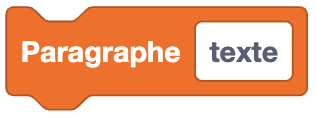
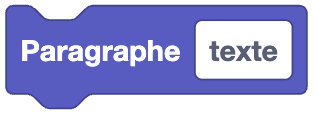
[FIX] feat to the new toolbox

diff --git a/sidebars.js b/sidebars.js
@@ -51,20 +51,19 @@ const sidebars = {
           label: "Tous les blocs",
 	      link: {type: 'doc', id: 'elioblocs/blocs/all-blocs'},
           items: [
-            "elioblocs/blocs/conditions",
-            "elioblocs/blocs/loops",
-            "elioblocs/blocs/maths",
-            "elioblocs/blocs/lists",
-            "elioblocs/blocs/text",
-            "elioblocs/blocs/variables",
-            "elioblocs/blocs/functions",
+            "elioblocs/blocs/basics",
             "elioblocs/blocs/colors",
             "elioblocs/blocs/sounds",
             "elioblocs/blocs/movements",
-            "elioblocs/blocs/obstacles",
-            "elioblocs/blocs/line",
-            "elioblocs/blocs/utilities",
-	        "elioblocs/blocs/wifi",
+            "elioblocs/blocs/entries",
+            "elioblocs/blocs/conditions",
+            "elioblocs/blocs/loops",
+            "elioblocs/blocs/maths",
+            "elioblocs/blocs/text",
+            "elioblocs/blocs/lists",
+            "elioblocs/blocs/wifi",
+            "elioblocs/blocs/variables",
+            "elioblocs/blocs/functions",
             {
                 type: 'category',
                 label: "Backpacks",

diff --git a/docs/elioblocs/blocs/entries.md b/docs/elioblocs/blocs/entries.md
@@ -1,14 +1,38 @@
 ---
 last_modified_on: "2024-02-26"
-title: "Capteur de ligne"
-description: "Elioblocs - Capteur de ligne"
+title: "Entrées"
+description: "Elioblocs - Entrées"
+---
+
+Les blocs d'entrées permettent de récupérer des informations de l'environnement d'Eliobot.
+
+Les blocs de capteur d'obstacles permettent de tester la présence d'un obstacle proche d'Eliobot.
+
+## Tester la présence d'un obstacle
+
+![Check obstacle](../../../static/img/elioblocs/blocs/entries/test-obstacles.png)
+
+**Type** : Bloc booléen
+
+**Définition** :
+
+Ce bloc permet de tester la présence d'un obstacle à une certaine distance d'Eliobot :
+- à l'avant
+- à l'arrière
+- à gauche
+- à droite
+
+**Utilisation** :
+
+Si tu veux éviter les obstacles tels des murs ou des objets.
+
 ---
 
 Les blocs de capteur de ligne permettent de suivre une ligne ou de tester la présence d'une ligne.
 
-## Suivre une ligne 
+## Suivre une ligne
 
-![alt text](../../../static/img/elioblocs/blocs/line/suivre-ligne.png)
+![alt text](../../../static/img/elioblocs/blocs/entries/suivre-ligne.png)
 
 **Type** : Commande
 
@@ -22,9 +46,7 @@ Si on veut que Eliobot suive une ligne noire sur un parcours, celui au dos de ta
 
 ## Tester la présence d'une ligne
 
-![alt text](../../../static/img/elioblocs/blocs/line/ligne-presente.png)
-
-![alt text](../../../static/img/elioblocs/blocs/line/choix-ligne.png)
+![alt text](../../../static/img/elioblocs/blocs/entries/ligne-presente.png)
 
 **Type** : Bloc booléen
 
@@ -43,7 +65,7 @@ Pour permettre à Eliobot de suivre une ligne noire sur un parcours et de tester
 
 ## Modifier la sensibilité du capteur de ligne
 
-![alt text](../../../static/img/elioblocs/blocs/line/sensi-ligne.png)
+![alt text](../../../static/img/elioblocs/blocs/entries/sensi-ligne.png)
 
 **Type** : Commande
 
@@ -57,7 +79,7 @@ Si tu es dans un espace très lumineux ou très sombre, tu peux modifier la sens
 
 ## Lire la valeur d'un capteur de ligne
 
-![alt text](../../../static/img/elioblocs/blocs/line/valeur-ligne.png)
+![alt text](../../../static/img/elioblocs/blocs/entries/valeur-ligne.png)
 
 **Type** : Valeur
 
@@ -72,7 +94,7 @@ Si tu veux récupérer la valeur du capteur de ligne pour mieux calibrer la sens
 
 ## Calibration automatique de ligne
 
-![alt text](../../../static/img/elioblocs/blocs/line/calibration-ligne.jpg)
+![alt text](../../../static/img/elioblocs/blocs/entries/calibration-ligne.jpg)
 
 **Type** : Commande
 
@@ -85,3 +107,18 @@ Ce bloc permet de calibrer automatiquement le capteur de ligne. Il permet de dé
 Il faut placer les 5 capteurs de ligne au-dessus d'une ligne noire et eliobot va calibrer automatiquement la valeur à laquelle il détecte la ligne en
 avançant et en reculant. Eliobot doit être perpendiculaire sur la ligne pour que la calibration soit correcte.
 
+---
+
+## Tester si le bouton est activé
+
+![Is button activated](../../../static/img/elioblocs/blocs/entries/test-bouton.png)
+
+**Type** : Bloc booléen
+
+**Définition** :
+
+Ce bloc permet de tester si le bouton d'Eliobot est activé, il renvoie `vrai` si le bouton est activé et `faux` sinon.
+
+**Utilisation** :
+
+Si tu veux réaliser une action seulement si le bouton d'Eliobot est activé. Démarrer ton programme par exemple.

diff --git a/docs/elioblocs/blocs/basics.md b/docs/elioblocs/blocs/basics.md
@@ -1,0 +1,70 @@
+---
+last_modified_on: "2024-02-26"
+title: "Basiques"
+description: "Elioblocs - Basics"
+---
+
+import Jump from '@site/src/components/Jump';
+
+Les blocs basiques sont les premiers blocs que tu vas utiliser pour programmer Eliobot.
+
+## Au démarrage
+
+![On start](../../../static/img/elioblocs/blocs/basics/boucle-start.jpg)
+
+**Type** : Commande
+
+**Définition** :
+
+Ce bloc est une boucle qui est exécutée une seule fois au démarrage du programme seule les blocs dans cette boucle ou dans une boucle Répéter indéfiniment sont éxécutés les autres sont désactivés.
+
+**Utilisation** :
+
+Si on veut que Eliobot avance d'une case au démarrage.
+
+
+## Répéter indéfiniment
+
+![Infinite loop](../../../static/img/elioblocs/blocs/basics/boucle-infinie.png)
+
+**Type** : Commande
+
+**Définition** :
+
+Cette boucle répète indéfiniment les blocs qu'elle contient. Pour arrêter la boucle, il faut utiliser <img src={require('@site/static/img/elioblocs/blocs/loops/quitter-boucle.png').default} style={{ width: '14%', verticalAlign: 'middle' }} alt="Quitter boucle" />.
+
+:::warning
+Attention, après l'utilisation de cette boucle, **seulement** les blocs qui se trouvent à l'intérieur seront exécutés à l'infini.
+:::
+
+**Utilisation** :
+
+Si on veut que Eliobot avance indéfiniment.
+
+## Attendre X secondes
+
+![Wait for X seconds](../../../static/img/elioblocs/blocs/basics/attendre.png)
+
+**Type** : Commande
+
+**Définition** :
+
+Ce bloc permet de faire une pause dans le programme pendant un certain nombre de secondes / millisecondes.
+
+**Utilisation** :
+
+Si tu veux faire une pause dans ton programme entre deux actions.
+
+## Afficher une valeur dans le terminal
+
+![Print value in the terminal](../../../static/img/elioblocs/blocs/basics/print-valeur.png)
+
+**Type** : Commande
+
+**Définition** :
+
+Ce bloc permet d'afficher une valeur dans le terminal. La valeur peut être un nombre, un texte ou un booléen.
+
+**Utilisation** :
+
+Si tu veux afficher une valeur pour débugger ton programme.

diff --git a/docs/eliobot/button.md b/docs/eliobot/button.md
@@ -19,7 +19,7 @@ Le mode Bootloading est un mode qui permet de flasher le microcontrôleur d'Elio
 
 ## Utilisation avec Elioblocs
 
-Pour utiliser le bouton d'Eliobot sur Elioblocs, on utilise le bloc <img src={require("@site/static/img/elioblocs/blocs/utilities/test-bouton.png").default} style={{ width: "14%", verticalAlign: "middle" }} alt="test bouton" /> pour tester si le bouton est pressé ou non, il renvoie `vrai` si le bouton est pressé et `faux` sinon.
+Pour utiliser le bouton d'Eliobot sur Elioblocs, on utilise le bloc <img src={require("@site/static/img/elioblocs/blocs/entries/test-bouton.png").default} style={{ width: "14%", verticalAlign: "middle" }} alt="test bouton" /> pour tester si le bouton est pressé ou non, il renvoie `vrai` si le bouton est pressé et `faux` sinon.
 
 ## Utilisation avec Python
 
@@ -35,7 +35,7 @@ L'information que le bouton renvoie sont des valeurs numériques (0,1), il faut 
 ><img src={require("@site/static/img/eliobot/button/example-button-elioblocs.jpg").default} alt="exemple bouton elioblocs" width="49%" />
 >
 
-Ici, on utilise le bloc <img src={require("@site/static/img/elioblocs/blocs/utilities/test-bouton.png").default} style={{ width: "14%", verticalAlign: "middle" }} alt="test bouton" /> pour écrire que le bouton est pressé dans le terminal.
+Ici, on utilise le bloc <img src={require("@site/static/img/elioblocs/blocs/entries/test-bouton.png").default} style={{ width: "14%", verticalAlign: "middle" }} alt="test bouton" /> pour écrire que le bouton est pressé dans le terminal.
 
 ---
 

diff --git a/docs/elioblocs/blocs/loops.md b/docs/elioblocs/blocs/loops.md
@@ -6,39 +6,6 @@ description: "Elioblocs - Boucles"
 
 Les boucles permettent de répéter des actions un certain nombre de fois où jusqu'à ce qu'une condition soit remplie (ou pas). Elles sont très utiles pour automatiser des tâches répétitives.
 
-## Au démarrage
-
-![On start](../../../static/img/elioblocs/blocs/loops/boucle-start.jpg)
-
-**Type** : Commande
-
-**Définition** :
-
-Ce bloc est une boucle qui est exécutée une seule fois au démarrage du programme seule les blocs dans cette boucle ou dans une boucle Répéter indéfiniment sont éxécutés les autres sont désactivés.
-
-**Utilisation** :
-
-Si on veut que Eliobot avance d'une case au démarrage.
-
-
-## Répéter indéfiniment
-
-![Infinite loop](../../../static/img/elioblocs/blocs/loops/boucle-infinie.png)
-
-**Type** : Commande
-
-**Définition** :
-
-Cette boucle répète indéfiniment les blocs qu'elle contient. Pour arrêter la boucle, il faut utiliser <img src={require('@site/static/img/elioblocs/blocs/loops/quitter-boucle.png').default} style={{ width: '14%', verticalAlign: 'middle' }} alt="Quitter boucle" />.
-
-:::warning 
-Attention, après l'utilisation de cette boucle, **seulement** les blocs qui se trouvent à l'intérieur seront exécutés à l'infini.
-:::
-
-**Utilisation** :
-
-Si on veut que Eliobot avance indéfiniment.
-
 ## Répéter X fois
 
 ![For loop](../../../static/img/elioblocs/blocs/loops/boucle-repeter.png)
